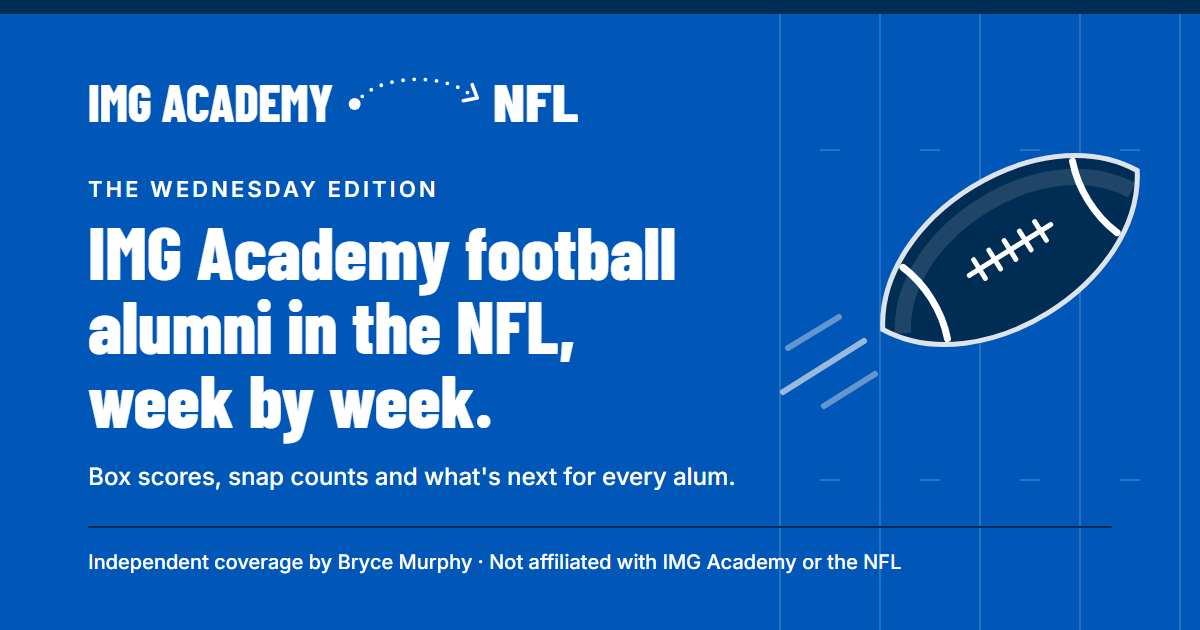
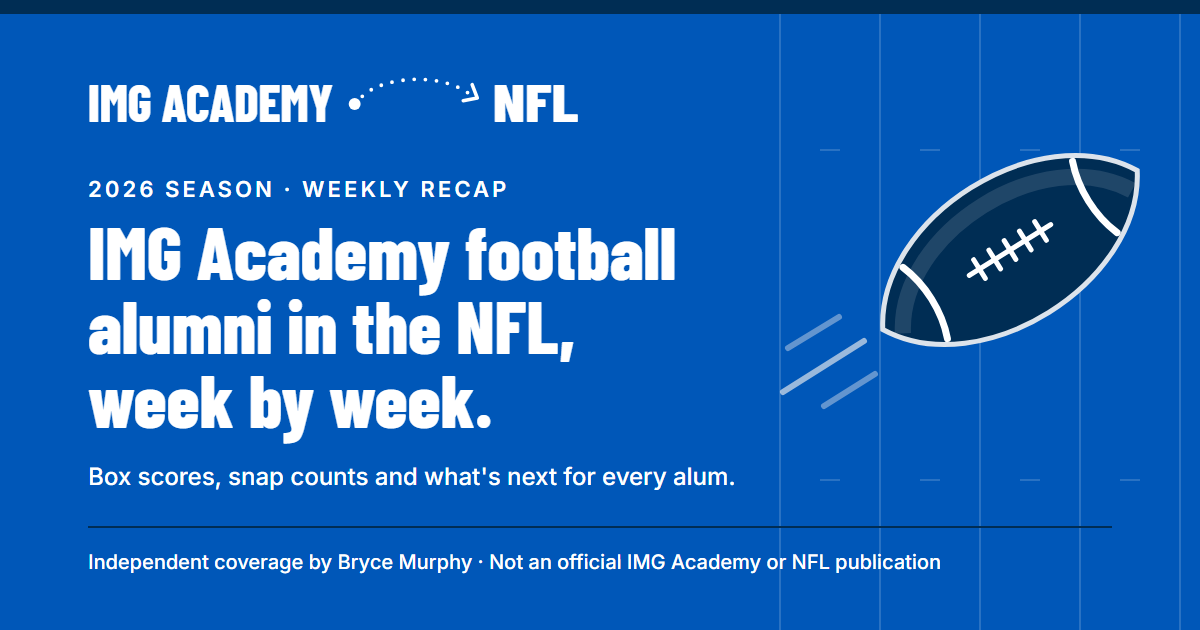
Say 'not an official publication' instead of 'not affiliated'
The author works at IMG Academy, so 'Not affiliated with IMG Academy' was false. Owner-approved wording: masthead and share card read 'Not an official IMG Academy or NFL publication'; footer and methodology call the site a personal project, not an official IMG Academy publication, not endorsed by IMG Academy, the NFL, its teams or its players; the LinkedIn draft ends 'A personal project, not an official IMG Academy or NFL publication.' The site does not mention the author's job. A test fails if any page or draft says 'not affiliated'. README, media policy, spec and CLAUDE.md match. The share card eyebrow becomes '2026 Season · Weekly Recap', with a yearly update step in OPERATIONS.md.

Changed region(s): [[0.0617, 0.2714, 0.4317, 0.3317], [0.4317, 0.8746, 0.8017, 0.9048]]

diff --git a/templates/base.html b/templates/base.html
@@ -26,7 +26,7 @@
 <body>
 <header class="masthead">
   <a class="brand" href="{{ root }}" aria-label="{{ site.title }}: this week's edition">{% include "_brand.svg" %}</a>
-  <p class="independent">Independent coverage by {{ site.author }} · Not affiliated with IMG Academy or the NFL</p>
+  <p class="independent">Independent coverage by {{ site.author }} · Not an official IMG Academy or NFL publication</p>
   <nav aria-label="Primary">
     <a href="{{ root }}">This week</a>
     <a href="{{ root }}archive/">Archive</a>
@@ -37,7 +37,7 @@
 {% block content %}{% endblock %}
 </main>
 <footer class="site-footer">
-  <p>{{ site.title }} is an independent project by <a href="{{ site.linkedin_profile }}">{{ site.author }}</a>. It is not affiliated with or endorsed by IMG Academy, the NFL, its teams or its players. Data: <a href="https://github.com/nflverse/nflverse-data">nflverse</a> (CC BY 4.0).</p>
+  <p>{{ site.title }} is a personal project by <a href="{{ site.linkedin_profile }}">{{ site.author }}</a>. It is not an official IMG Academy publication and is not endorsed by IMG Academy, the NFL, its teams or its players. Data: <a href="https://github.com/nflverse/nflverse-data">nflverse</a> (CC BY 4.0).</p>
 </footer>
 </body>
 </html>

diff --git a/templates/methodology.html b/templates/methodology.html
@@ -38,6 +38,6 @@
   <h2>Schedule and corrections</h2>
   <p>Editions publish on Wednesdays during the regular season and postseason, after every game of the week is final. NFL statistics can be corrected later in the week.</p>
   <h2>Sources and independence</h2>
-  <p>Data comes from <a href="https://github.com/nflverse/nflverse-data">nflverse</a> (CC BY 4.0); snap counts originate with Pro Football Reference. Every edition links its data file and source checksums. Team logos and player photographs are not used. This is an independent project by {{ site.author }}, not affiliated with or endorsed by IMG Academy, the NFL, its teams or its players.</p>
+  <p>Data comes from <a href="https://github.com/nflverse/nflverse-data">nflverse</a> (CC BY 4.0); snap counts originate with Pro Football Reference. Every edition links its data file and source checksums. Team logos and player photographs are not used. This is a personal project by {{ site.author }}. It is not an official IMG Academy publication and is not endorsed by IMG Academy, the NFL, its teams or its players.</p>
 </article>
 {% endblock %}

diff --git a/scripts/share_card.html b/scripts/share_card.html
@@ -44,9 +44,9 @@
 </svg>
 <div class="rule"></div>
 <div class="brand"><!-- brand: templates/_brand.svg --></div>
-<p class="eyebrow">The Wednesday edition</p>
+<p class="eyebrow">2026 Season · Weekly Recap</p>
 <h1>IMG Academy football alumni in the NFL, week by week.</h1>
 <p class="sub">Box scores, snap counts and what's next for every alum.</p>
-<div class="foot"><span>Independent coverage by Bryce Murphy · Not affiliated with IMG Academy or the NFL</span></div>
+<div class="foot"><span>Independent coverage by Bryce Murphy · Not an official IMG Academy or NFL publication</span></div>
 </body>
 </html>

diff --git a/tests/test_site.py b/tests/test_site.py
@@ -40,7 +40,7 @@ class RenderTests(SiteTestCase):
         html = self.read(self.render() / "index.html")
         self.assertIn('<meta name="edition-id" content="2026-week-02">', html)
         self.assertIn("IMG Academy → NFL", html)
-        self.assertIn("Not affiliated with IMG Academy or the NFL", html)
+        self.assertIn("Not an official IMG Academy or NFL publication", html)
 
     def test_headline_markup_is_escaped(self):
         edition = fixture_data.golden_edition()
@@ -133,6 +133,20 @@ class RenderTests(SiteTestCase):
         self.assertEqual((int.from_bytes(header[16:20], "big"), int.from_bytes(header[20:24], "big")), (1200, 630))
         self.assertTrue((out / "static" / "favicon.svg").exists())
 
+    def test_no_page_or_draft_claims_to_be_unaffiliated(self):
+        # The author works at IMG Academy: the accurate claim is "not an official publication".
+        out = self.render()
+        for page in [*out.rglob("*.html"), *out.rglob("social-drafts.json")]:
+            text = self.read(page).lower()
+            self.assertNotIn("not affiliated", text, page)
+            self.assertNotIn("works at img academy", text, page)
+        footer = self.read(out / "index.html").split('<footer class="site-footer">')[1]
+        self.assertIn("personal project", footer)
+        self.assertIn("not an official IMG Academy publication", footer)
+        card = (Path(site.ROOT) / "scripts" / "share_card.html").read_text(encoding="utf-8")
+        self.assertIn("Not an official IMG Academy or NFL publication", card)
+        self.assertIn("2026 Season · Weekly Recap", card)
+
     def test_cards_say_how_much_a_player_played_in_words(self):
         html = self.read(self.render() / "index.html")
         delpit = next(p for p in fixture_data.golden_edition()["players"] if p["name"] == "Grant Delpit")
@@ -158,7 +172,7 @@ class RenderTests(SiteTestCase):
     def test_linkedin_draft_is_first_person_and_states_independence(self):
         drafts = json.loads(self.read(self.render() / "editions" / "2026-week-02" / "social-drafts.json"))
         self.assertIn("Every week I track", drafts["linkedin"])
-        self.assertIn("Not affiliated with IMG Academy or the NFL", drafts["linkedin"])
+        self.assertIn("A personal project, not an official IMG Academy or NFL publication.", drafts["linkedin"])
         self.assertNotIn("participation evidence", drafts["linkedin"])
 
     def test_helpers(self):

diff --git a/src/site.py b/src/site.py
@@ -175,7 +175,7 @@ def social_drafts(edition, copy, url):
         f"{copy['headline']}\n\n{copy['dek']}\n\n"
         f"Every week I track the IMG Academy football alumni in the NFL: results, how much each one played "
         f"and what's next. Every number is checked against the data. Here's Week {week}:\n\n{url}\n\n"
-        "Independent project. Not affiliated with IMG Academy or the NFL."
+        "A personal project, not an official IMG Academy or NFL publication."
     )
     x = f"{copy['headline']}\n\nIMG Academy → NFL, Week {week}: {url}"
     return {"state": "draft", "edition": edition["id"], "url": url, "linkedin": linkedin, "x": x}

diff --git a/docs/superpowers/specs/2026-09-26-wednesday-edition-v1-design.md b/docs/superpowers/specs/2026-09-26-wednesday-edition-v1-design.md
@@ -233,7 +233,7 @@ Content checks (reject the draft in the pipeline; **warn only** in CI so owner e
 
 Pages: `/` (latest edition), `/editions/<id>/` (permanent), `/archive/` (sorted by season, then week, numerically), `/methodology/`, `404.html`, `sitemap.xml`, `robots.txt`. Each edition page links its `edition.json` and `sources.json`.
 
-Homepage sections, following the mockup: masthead (wordmark, path graphic, "Independent · not affiliated with IMG Academy or the NFL") → edition eyebrow → headline, dek, lead and featured card (monogram, score) → "Alumni in action" cards for Played players in ranking order → weekly box score table → availability section grouped by label → "Up next" strip grouped by team → sources table, warnings, disclaimer, data license.
+Homepage sections, following the mockup: masthead (wordmark, path graphic, "Independent coverage by Bryce Murphy · Not an official IMG Academy or NFL publication" (revised 2026-09-27: the author works at IMG Academy)) → edition eyebrow → headline, dek, lead and featured card (monogram, score) → "Alumni in action" cards for Played players in ranking order → weekly box score table → availability section grouped by label → "Up next" strip grouped by team → sources table, warnings, disclaimer, data license.
 
 Rules: Jinja2 autoescape on; team colors validated as `#RRGGBB`; no third-party images; Open Graph and Twitter meta from headline/dek; `<meta name="edition-id">` on every edition page for deploy verification. Brand graphic: original SVG path motif (Bradenton → league) using site colors; concepts are reviewed by the owner in the implementation PR. Existing fonts (Barlow Condensed, Inter via Google Fonts) and palette carry over. Layout verified at 375 px and 1280 px.
 

diff --git a/docs/MEDIA_RIGHTS.md b/docs/MEDIA_RIGHTS.md
@@ -16,4 +16,4 @@ Upstream photo/logo URLs can remain as provenance metadata; they are not display
 
 ## Wordmark
 
-The site's name, IMG Academy → NFL, is set as plain text beside an original path graphic. It uses no IMG Academy or NFL logo, typeface or trade dress, and the masthead states that the project is not affiliated with either. Using an official IMG Academy mark requires written permission recorded here first: the grantor, scope, permitted web and social uses, attribution and any expiry. The site's colors follow the official IMG Academy Brand Guidelines (v1.2, May 2024); colors alone do not imply endorsement, and the independence label stays in the masthead.
+The site's name, IMG Academy → NFL, is set as plain text beside an original path graphic. It uses no IMG Academy or NFL logo, typeface or trade dress, and the masthead states that it is not an official IMG Academy or NFL publication. The author works at IMG Academy, so the site never claims to be unaffiliated; it is a personal project, not an official publication. Using an official IMG Academy mark requires written permission recorded here first: the grantor, scope, permitted web and social uses, attribution and any expiry. The site's colors follow the official IMG Academy Brand Guidelines (v1.2, May 2024); colors alone do not imply endorsement, and the independence label stays in the masthead.

diff --git a/CLAUDE.md b/CLAUDE.md
@@ -41,6 +41,7 @@ A weekly, evidence-led web edition about NFL players who played football at IMG 
 - Automation never rewrites a merged `editions/<id>/` directory.
 - Pin every GitHub Action to a full SHA. Use only GitHub-owned actions. Never put `${{ }}` expressions inside `run:` scripts; pass values through `env:`.
 - Public copy says "IMG Academy" in full, never "IMG" alone (brand guidelines' editorial rule).
+- The author works at IMG Academy: never write "not affiliated". The label is "Not an official IMG Academy or NFL publication"; the site does not mention the author's job.
 - Site colors come from the official IMG Academy palette in `static/styles.css`; team colors are only bars and borders.
 
 ## Git

diff --git a/README.md b/README.md
@@ -1,6 +1,6 @@
 # IMG Academy → NFL
 
-Independent, evidence-led weekly coverage of NFL players who played football at IMG Academy, by [Bryce Murphy](https://www.linkedin.com/in/bryce-murphy/). A public portfolio project, not affiliated with or endorsed by IMG Academy or the NFL.
+Independent, evidence-led weekly coverage of NFL players who played football at IMG Academy, by [Bryce Murphy](https://www.linkedin.com/in/bryce-murphy/). A personal portfolio project, not an official IMG Academy or NFL publication and not endorsed by either.
 
 **Read it:** https://bryce-murphy.github.io/img-academy-nfl-reports/
 

diff --git a/docs/OPERATIONS.md b/docs/OPERATIONS.md
@@ -48,4 +48,5 @@ GitHub can start scheduled runs 15 minutes to 2 hours late.
 ## Each season
 
 - Review `data/alumni.json` (rookies, transfers, undrafted signings), with a source for every entry, then set `registry_reviewed_season` in `config.json`. Scheduled editions refuse to run until the two match.
+- Update the season on the share card (`scripts/share_card.html`, "2026 Season · Weekly Recap"), then run `scripts/make_share_card.py`.
 - Public repositories lose scheduled workflows after 60 days without activity. In late August, open Actions and re-enable **Weekly edition** if needed.
